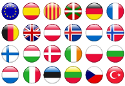
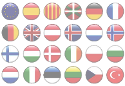
#1000: show which language is selected

diff --git a/app/templates/_app/_styles/codebusters.css b/app/templates/_app/_styles/codebusters.css
@@ -99,8 +99,8 @@ body {
 }
 .langContainer > div{
   display: inline-block;
-  padding-left: 5px;
-  padding-right: 5px;
+  padding-left: 11px;
+  padding-right: 10px;
   cursor: pointer;
 }
 .banner {
@@ -108,6 +108,9 @@ body {
   height:19px;
   width:20px;
   background-image:url('../images/lang_banners.png');
+}
+.banner_active {
+    background-image:url('../images/lang_banners_active.png');
 }
 .es {background-position:-22px -2px; text-decoration: none}
 .en {background-position:-22px -24px;}

diff --git a/app/templates/_app/_scripts/modules/lang/controller.js b/app/templates/_app/_scripts/modules/lang/controller.js
@@ -21,9 +21,11 @@ define([
   module.controller('LangController', [
     '$scope','$translate','langModuleUtils'
     ,function($scope, $translate, langModuleUtils) {
+    $scope.selectedLang = $translate.use() || getBrowserLang();
     $scope.showLangs = langModuleUtils.showLangsBar();
     $scope.langs = langModuleUtils.getLangs();
     $scope.changeLang = function(key) {
+      $scope.selectedLang = key;
       $translate.use(key);
     };
   }]);

diff --git a/app/templates/_app/_scripts/modules/lang/templates/langs.html b/app/templates/_app/_scripts/modules/lang/templates/langs.html
@@ -1,3 +1,3 @@
 <div class="langContainer" ng-controller="LangController">
-  <div class="banner {{lang}}" ng-click="changeLang('{{lang}}')" ng-repeat="lang in langs"></div>
+  <div ng-class="{ 'banner_active': selectedLang == lang }" class="banner {{lang}}" ng-click="changeLang('{{lang}}')" ng-repeat="lang in langs"></div>
 </div>
